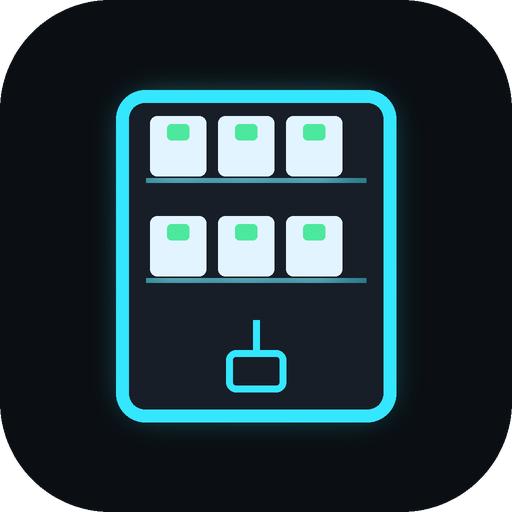
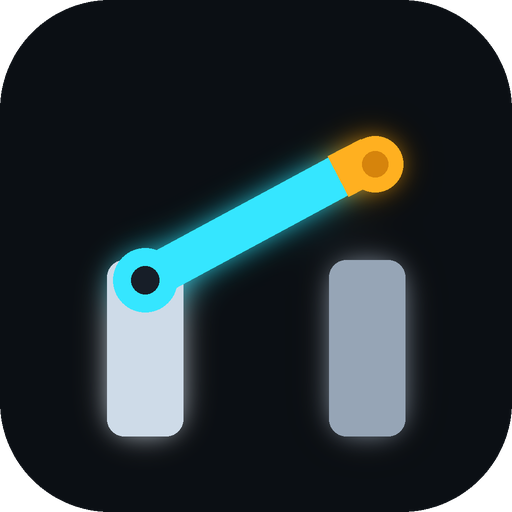
Новая иконка: рубильник вместо щитка
- tool/icon_art.py: три варианта знака (рубильник, тумблер, автомат) с общим
  неоновым стилем; tool/icon_variants.py собирает превью с размерами 48/96 px
  и показом на светлом фоне.
- Выбран рубильник: две стойки, шарнир, поднятый нож с зазором, оранжевая
  рукоятка. Проверено vision-моделью: «лучший баланс узнаваемости и
  читаемости в 48 px»; первый вариант забракован (нож не совпадал с
  контактом, не читался шарнир) и переделан.
- Перегенерированы все размеры Android (legacy 48–192, adaptive 108–432,
  иконка 512 для магазина).
- Версия 1.0.3+4.

Тесты: 44 приложение; analyze чистый.

Changed region(s): [[0.1562, 0.1562, 0.8125, 0.875]]

diff --git a/test/draft_test.dart b/test/draft_test.dart
@@ -225,7 +225,7 @@ void main() {
     await tester.pumpAndSettle();
 
     expect(find.text('Электрощит'), findsOneWidget);
-    expect(find.textContaining('Версия 1.0.2'), findsOneWidget);
+    expect(find.textContaining('Версия 1.0.3'), findsOneWidget);
     expect(find.textContaining('не собирает и не передаёт'), findsOneWidget);
     expect(find.textContaining('черновик'), findsOneWidget);
   });

diff --git a/lib/presentation/about/about_screen.dart b/lib/presentation/about/about_screen.dart
@@ -7,7 +7,7 @@ class AboutScreen extends StatelessWidget {
   const AboutScreen({super.key});
 
   /// Держать в одном месте с pubspec.yaml (version: 1.0.1+2).
-  static const _version = '1.0.2';
+  static const _version = '1.0.3';
 
   @override
   Widget build(BuildContext context) {

diff --git a/tool/icon_art.py b/tool/icon_art.py
@@ -1,0 +1,150 @@
+#!/usr/bin/env python3
+"""Рисуем варианты иконки: рубильник, тумблер, автомат.
+
+Координаты заданы в пространстве 1024×1024 и масштабируются.
+"""
+from __future__ import annotations
+
+from PIL import Image, ImageDraw, ImageFilter
+
+BG = (11, 15, 20, 255)
+PLATE = (23, 30, 40, 255)
+NEON = (53, 230, 255, 255)
+NEON_SOFT = (53, 230, 255, 110)
+METAL = (206, 219, 232, 255)
+METAL_DARK = (150, 165, 182, 255)
+HOT = (255, 176, 32, 255)      # рукоятка под напряжением
+HOT_DARK = (214, 132, 12, 255)
+SIZE = 1024
+
+
+def _rr(draw, box, radius, fill=None, outline=None, width=1):
+    draw.rounded_rectangle(box, radius=radius, fill=fill, outline=outline,
+                           width=width)
+
+
+def _with_glow(paint, blur: int = 30) -> Image.Image:
+    """Слой рисунка + размытая копия под ним — неоновое свечение."""
+    layer = Image.new("RGBA", (SIZE, SIZE), (0, 0, 0, 0))
+    paint(layer)
+    glow = layer.filter(ImageFilter.GaussianBlur(blur))
+    out = Image.new("RGBA", (SIZE, SIZE), (0, 0, 0, 0))
+    out.alpha_composite(glow)
+    out.alpha_composite(layer)
+    return out
+
+
+# ───────────────────────── 1. рубильник ─────────────────────────
+def draw_knife(canvas: Image.Image, s: float = 1.0, glow: bool = True) -> None:
+    """Рубильник: две стойки, толстый нож с шарниром, рукоятка.
+
+    Крупные формы и толстые линии — чтобы силуэт читался в 48 px.
+    Нож поднят: зазор до правого контакта показывает «выключено».
+    """
+    def paint(img: Image.Image) -> None:
+        d = ImageDraw.Draw(img)
+        k = lambda v: int(v * s)  # noqa: E731
+
+        # стойки контактов — крупные, почти во всю высоту
+        _rr(d, (k(214), k(520), k(366), k(872)), k(34), fill=METAL)
+        _rr(d, (k(658), k(520), k(810), k(872)), k(34), fill=METAL_DARK)
+
+        # нож: от шарнира вверх-вправо, с явным зазором до правой стойки
+        d.line([(k(290), k(560)), (k(676), k(352))], fill=NEON, width=k(86))
+        # шарнир
+        d.ellipse((k(226), k(496), k(354), k(624)), fill=NEON)
+        d.ellipse((k(262), k(532), k(318), k(588)), fill=PLATE)
+
+        # рукоятка
+        d.line([(k(676), k(352)), (k(742), k(318))], fill=HOT, width=k(92))
+        d.ellipse((k(694), k(272), k(806), k(384)), fill=HOT)
+        d.ellipse((k(724), k(302), k(776), k(354)), fill=HOT_DARK)
+
+    layer = Image.new("RGBA", (SIZE, SIZE), (0, 0, 0, 0))
+    paint(layer)
+    if glow:
+        canvas.alpha_composite(layer.filter(ImageFilter.GaussianBlur(30)))
+    canvas.alpha_composite(layer)
+
+
+# ───────────────────────── 2. тумблер ─────────────────────────
+def draw_lever(canvas: Image.Image, s: float = 1.0, glow: bool = True) -> None:
+    """Промышленный переключатель: корпус и рычаг с шариком."""
+    def paint(img: Image.Image) -> None:
+        d = ImageDraw.Draw(img)
+        k = lambda v: int(v * s)  # noqa: E731
+
+        # корпус
+        _rr(d, (k(300), k(470), k(724), k(900)), k(70), fill=PLATE,
+            outline=NEON, width=k(26))
+        # основание рычага
+        d.ellipse((k(452), k(566), k(572), k(666)), fill=METAL)
+        # рычаг вверх-вправо
+        d.line([(k(512), k(616)), (k(660), k(318))], fill=METAL, width=k(54))
+        # шарик
+        d.ellipse((k(604), k(258), k(716), k(370)), fill=HOT)
+        d.ellipse((k(628), k(282), k(692), k(346)), fill=HOT_DARK)
+        # клеммы снизу — намёк на подключение
+        _rr(d, (k(336), k(838), k(404), k(890)), k(10), fill=METAL_DARK)
+        _rr(d, (k(620), k(838), k(688), k(890)), k(10), fill=METAL_DARK)
+        # дуга хода
+        d.arc((k(360), k(300), k(700), k(700)), start=250, end=310,
+              fill=NEON_SOFT, width=k(12))
+
+    canvas.alpha_composite(_with_glow(paint) if glow else Image.new(
+        "RGBA", (SIZE, SIZE), (0, 0, 0, 0)))
+    if not glow:
+        paint(canvas)
+
+
+# ───────────────────────── 3. автомат ─────────────────────────
+def draw_breaker(canvas: Image.Image, s: float = 1.0,
+                 glow: bool = True) -> None:
+    """Модульный автомат на DIN-рейке, рычаг поднят."""
+    def paint(img: Image.Image) -> None:
+        d = ImageDraw.Draw(img)
+        k = lambda v: int(v * s)  # noqa: E731
+
+        # DIN-рейка — тонкая, только намёк
+        _rr(d, (k(150), k(800), k(874), k(846)), k(10), fill=PLATE)
+
+        # корпус
+        _rr(d, (k(352), k(220), k(672), k(806)), k(48), fill=PLATE,
+            outline=NEON_SOFT, width=k(14))
+        # окно индикатора
+        _rr(d, (k(420), k(300), k(604), k(392)), k(16), fill=(9, 12, 16, 255))
+        # рычаг: тело + оранжевая «шапка» как часть рычага
+        _rr(d, (k(456), k(440), k(568), k(700)), k(30), fill=METAL)
+        _rr(d, (k(456), k(440), k(568), k(516)), k(24), fill=HOT)
+        # клеммы сверху и снизу
+        _rr(d, (k(398), k(206), k(462), k(244)), k(8), fill=METAL_DARK)
+        _rr(d, (k(562), k(206), k(626), k(244)), k(8), fill=METAL_DARK)
+        _rr(d, (k(398), k(786), k(462), k(824)), k(8), fill=METAL_DARK)
+        _rr(d, (k(562), k(786), k(626), k(824)), k(8), fill=METAL_DARK)
+
+    canvas.alpha_composite(_with_glow(paint) if glow else Image.new(
+        "RGBA", (SIZE, SIZE), (0, 0, 0, 0)))
+    if not glow:
+        paint(canvas)
+
+
+VARIANTS = {
+    'knife': ('Рубильник', draw_knife),
+    'lever': ('Тумблер', draw_lever),
+    'breaker': ('Автомат', draw_breaker),
+}
+
+
+def make_canvas() -> Image.Image:
+    """Тёмный скруглённый квадрат — фон иконки."""
+    canvas = Image.new("RGBA", (SIZE, SIZE), (0, 0, 0, 0))
+    bg = Image.new("RGBA", (SIZE, SIZE), (0, 0, 0, 0))
+    _rr(ImageDraw.Draw(bg), (0, 0, SIZE - 1, SIZE - 1), 220, fill=BG)
+    canvas.alpha_composite(bg)
+    return canvas
+
+
+def make_icon(name: str) -> Image.Image:
+    canvas = make_canvas()
+    VARIANTS[name][1](canvas)
+    return canvas

diff --git a/tool/icon_variants.py b/tool/icon_variants.py
@@ -1,0 +1,58 @@
+#!/usr/bin/env python3
+"""Превью вариантов иконки: три штуки рядом на тёмном и светлом фоне."""
+import pathlib
+import sys
+
+from PIL import Image, ImageDraw, ImageFont
+
+sys.path.insert(0, str(pathlib.Path(__file__).resolve().parent))
+import icon_art  # noqa: E402
+
+OUT = pathlib.Path('store/icon-variants')
+OUT.mkdir(parents=True, exist_ok=True)
+
+bold = ImageFont.truetype('/usr/share/fonts/truetype/dejavu/DejaVuSans-Bold.ttf', 34)
+small = ImageFont.truetype('/usr/share/fonts/truetype/dejavu/DejaVuSans.ttf', 24)
+
+icons = {}
+for key in icon_art.VARIANTS:
+    icon = icon_art.make_icon(key)
+    icon.save(OUT / f'{key}.png')
+    icons[key] = icon.resize((360, 360), Image.LANCZOS)
+
+W = 3 * 400 + 80
+H = 640
+sheet = Image.new('RGB', (W, H), (16, 20, 26))
+d = ImageDraw.Draw(sheet)
+for i, (key, (title, _)) in enumerate(icon_art.VARIANTS.items()):
+    x = 40 + i * 400
+    sheet.paste(icons[key], (x, 90), icons[key])
+    tw = d.textlength(title, font=bold)
+    d.text((x + (360 - tw) / 2, 470), title, fill=(235, 242, 250), font=bold)
+    tw = d.textlength(key, font=small)
+    d.text((x + (360 - tw) / 2, 515), key, fill=(120, 134, 150), font=small)
+
+# как выглядит в реальном размере 48 px
+tiny = Image.new('RGB', (W, 120), (16, 20, 26))
+td = ImageDraw.Draw(tiny)
+for i, key in enumerate(icon_art.VARIANTS):
+    x = 40 + i * 400
+    t48 = icons[key].resize((48, 48), Image.LANCZOS)
+    t96 = icons[key].resize((96, 96), Image.LANCZOS)
+    tiny.paste(t48, (x + 40, 36), t48)
+    tiny.paste(t96, (x + 150, 12), t96)
+canvas_with_tiny = Image.new('RGB', (W, H + 200 + 120), (16, 20, 26))
+canvas_with_tiny.paste(sheet, (0, 0))
+canvas_with_tiny.paste(tiny, (0, H))
+
+# как смотрится на светлом фоне
+light = Image.new('RGB', (W, 200), (242, 244, 247))
+ld = ImageDraw.Draw(light)
+for i, key in enumerate(icon_art.VARIANTS):
+    x = 40 + i * 400
+    small_icon = icons[key].resize((150, 150), Image.LANCZOS)
+    light.paste(small_icon, (x + 105, 25), small_icon)
+canvas_with_tiny.paste(light, (0, H + 120))
+canvas_with_tiny.save(OUT / 'preview.png', optimize=True)
+print('варианты:', ', '.join(icon_art.VARIANTS))
+print('превью:', OUT / 'preview.png', canvas_with_tiny.size)

diff --git a/tool/generate_icon.py b/tool/generate_icon.py
@@ -10,7 +10,12 @@ from __future__ import annotations
 
 import pathlib
 
+import sys
+
 from PIL import Image, ImageDraw, ImageFilter
+
+sys.path.insert(0, str(pathlib.Path(__file__).resolve().parent))
+import icon_art  # noqa: E402
 
 ROOT = pathlib.Path(__file__).resolve().parent.parent
 ANDROID_RES = ROOT / "android/app/src/main/res"
@@ -33,37 +38,8 @@ def rounded(draw: ImageDraw.ImageDraw, box, radius, fill=None, outline=None,
 
 
 def draw_panel(canvas: Image.Image, scale: float = 1.0) -> None:
-    """Рисует сам щит. scale=1.0 — во весь холст (для мастер-иконки)."""
-    draw = ImageDraw.Draw(canvas)
-    s = lambda v: int(v * scale)  # noqa: E731
-
-    # корпус щита
-    left, top = s(232), s(180)
-    right, bottom = s(792), s(844)
-    rounded(draw, (left, top, right, bottom), s(58), fill=PANEL,
-            outline=NEON, width=s(26))
-
-    # DIN-рейка (две горизонтальные)
-    for y in (s(360), s(560)):
-        draw.line([(s(292), y), (s(732), y)], fill=NEON_DIM, width=s(10))
-
-    # автоматы: 3 сверху, 3 снизу
-    block_w, block_h = s(112), s(120)
-    gap = s(24)
-    start_x = s(300)
-    for row_y in (s(232), s(432)):
-        for i in range(3):
-            x = start_x + i * (block_w + gap)
-            rounded(draw, (x, row_y, x + block_w, row_y + block_h), s(14),
-                    fill=BLOCK)
-            # тумблер автомата
-            rounded(draw, (x + s(34), row_y + s(16), x + s(78),
-                           row_y + s(48)), s(8), fill=ACCENT)
-
-    # «шина» по центру внизу — намёк на ввод
-    draw.line([(s(512), s(640)), (s(512), s(700))], fill=NEON, width=s(14))
-    rounded(draw, (s(452), s(700), s(572), s(784)), s(20), outline=NEON,
-            width=s(14))
+    """Рисует знак иконки: рубильник (см. tool/icon_art.py)."""
+    icon_art.draw_knife(canvas, s=scale)
 
 
 def make_master() -> Image.Image:
